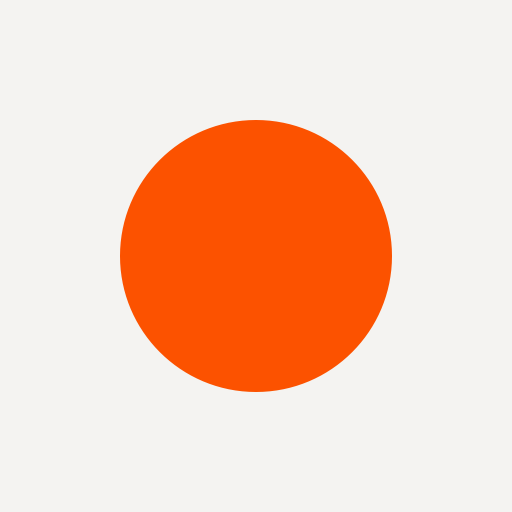
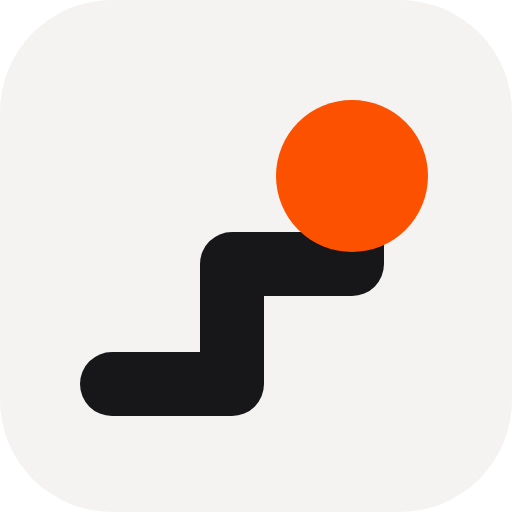
feat(shell): adopt the stepped trace as the mark
The dot becomes a two-tread step plot climbing to it — a stepped series is how
a machine draws a log, and the same climb is a hill to anyone who has run one.
The dot is unchanged and still the loudest thing in the mark; it has only been
given somewhere to be.

Both headers draw the component, and the favicon repeats its geometry as a
static asset with the colours named, because a tab icon has to resolve before
any script runs and cannot inherit `currentColor`. The touch and 512 icons are
rasterised from that same file. Checked at 16, 24, 32 and 48 px: two treads
leave four pixels between risers at tab size, which holds, and a third would
not.

Changed region(s): [[0.1562, 0.1875, 0.8438, 0.8125]]

diff --git a/src/shell/BrandMark.tsx b/src/shell/BrandMark.tsx
@@ -1,0 +1,45 @@
+/**
+ * The mark.
+ *
+ * A two-tread step plot climbing to the accent dot, which is the whole name in
+ * one shape: a stepped series is how a machine draws a log — discrete samples,
+ * each held until the next reading — and the same climb is a hill to anyone who
+ * has run one. The dot is the part that carries over. It was the entire mark
+ * before this, and it is still the loudest thing here; it has only been given
+ * somewhere to be, which happens to be where the cursor sits on every timeline
+ * in the app.
+ *
+ * Two treads rather than three because this is a favicon before it is anything
+ * else. At 16px a 64-unit viewBox divides by four, so a three-tread version put
+ * three pixels between risers and silted into a smear; two treads leave four,
+ * which holds. The same arithmetic sets the 8-unit stroke — anything lighter
+ * disappears in the tab bar.
+ *
+ * The stroke is `currentColor` so the mark tints with the text beside it —
+ * secondary in the run header, primary on hover — and the dot is always the
+ * accent, which is the one thing about it that never varies.
+ *
+ * It is hidden from assistive technology in both places it is used, because in
+ * both the words "Run Log" are already sitting next to it: naming the mark as
+ * well would read the brand out twice.
+ */
+export function BrandMark({ className }: { className?: string }) {
+  return (
+    <svg
+      className={className}
+      viewBox="0 0 64 64"
+      aria-hidden="true"
+      focusable="false"
+    >
+      <path
+        d="M14 48 H29 V33 H44 V22"
+        fill="none"
+        stroke="currentColor"
+        strokeWidth="8"
+        strokeLinecap="round"
+        strokeLinejoin="round"
+      />
+      <circle cx="44" cy="22" r="9.5" fill="var(--accent)" />
+    </svg>
+  );
+}

diff --git a/src/shell/RunHeader.tsx b/src/shell/RunHeader.tsx
@@ -6,6 +6,7 @@ import { useLibraryStore } from "@/state/libraryStore";
 import { RunList } from "@/library/RunList";
 import { sendsCrashReports, useSettingsStore } from "@/state/settingsStore";
 import { CRASH_REPORTING_AVAILABLE } from "@/observability/sentry";
+import { BrandMark } from "./BrandMark";
 import { TableOfContents } from "./TableOfContents";
 import { useScrollProgress } from "./useScrollProgress";
 import { useHeaderHeight } from "./useHeaderHeight";
@@ -71,7 +72,7 @@ export function RunHeader({
           onClick={reset}
           aria-label="Run Log — back to the home page"
         >
-          <span className={styles.homeMark} aria-hidden="true" />
+          <BrandMark className={styles.homeMark} />
           <span className={styles.homeText}>Run Log</span>
         </button>
 

diff --git a/src/upload/DropZone.tsx b/src/upload/DropZone.tsx
@@ -3,6 +3,7 @@ import { useActivityStore } from "@/state/activityStore";
 import { useLibraryStore } from "@/state/libraryStore";
 import { itemForFile } from "@/library/import";
 import { RunList } from "@/library/RunList";
+import { BrandMark } from "@/shell/BrandMark";
 import { SourceGuide } from "./SourceGuide";
 import { ArchivePicker } from "./ArchivePicker";
 import { Benefits } from "./Benefits";
@@ -95,7 +96,7 @@ export function DropZone() {
       <header className={styles.bar}>
         <nav className={styles.nav}>
           <span className={styles.wordmark}>
-            <span className={styles.mark} aria-hidden="true" />
+            <BrandMark className={styles.mark} />
             Run Log
           </span>
           <span className={styles.navRule} aria-hidden="true" />

diff --git a/src/upload/DropZone.module.css b/src/upload/DropZone.module.css
@@ -57,12 +57,12 @@
   letter-spacing: var(--tracking-heading);
 }
 
-/* The one piece of colour above the fold. */
+/* The one piece of colour above the fold. Sized against the wordmark rather
+   than in pixels, so the mark and the name stay locked up at any type scale. */
 .mark {
-  width: 9px;
-  height: 9px;
-  border-radius: 50%;
-  background: var(--accent);
+  width: 1.35em;
+  height: 1.35em;
+  flex: none;
 }
 
 .navRule {

diff --git a/src/shell/RunHeader.module.css b/src/shell/RunHeader.module.css
@@ -72,11 +72,13 @@
   color: var(--text-primary);
 }
 
+/* Sized in pixels rather than ems: this row's type is 0.82rem, and 1.35em of
+   that is eleven pixels, at which the treads close up. The mark has a floor
+   the old dot did not. */
 .homeMark {
-  width: 9px;
-  height: 9px;
-  border-radius: 50%;
-  background: var(--accent);
+  width: 18px;
+  height: 18px;
+  flex: none;
 }
 
 .identity {
